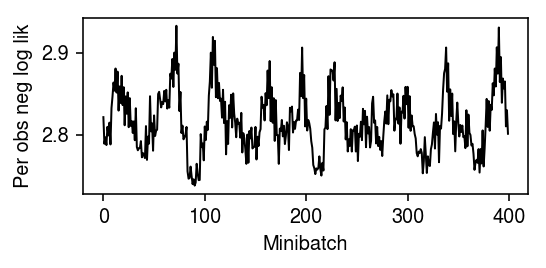
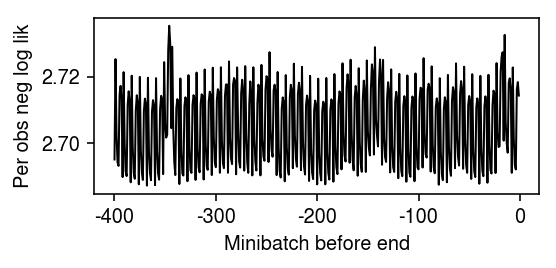
Look at amortization gap in ANMF

diff --git a/docs/time-course.html b/docs/time-course.html
@@ -1,7 +1,7 @@
 <!DOCTYPE html>
 <html lang="en">
 <head>
-<!-- 2020-03-12 Thu 13:06 -->
+<!-- 2020-03-12 Thu 19:55 -->
 <meta charset="utf-8">
 <meta name="viewport" content="width=device-width, initial-scale=1">
 <title>Fully unsupervised topic models of scRNA-seq time course data</title>
@@ -625,33 +625,25 @@ Simulate a simple example.
 <span class="org-variable-name">k</span> = 10
 <span class="org-variable-name">l</span> = np.random.lognormal(sigma=0.5, size=(n, k))
 <span class="org-variable-name">f</span> = np.random.lognormal(sigma=0.5, size=(p, k))
-<span class="org-variable-name">x</span> = np.random.poisson(l.dot(f.T))
+<span class="org-variable-name">x</span> = np.random.poisson(l @ f.T)
 <span class="org-variable-name">s</span> = x.<span class="org-builtin">sum</span>(axis=1)
 </pre>
 </div>
 
 <p>
-Fit NMF via EM.
+Fit NMF via EM. Report the time elapsed (minutes).
 </p>
 
 <div class="org-src-container">
 <pre class="src src-ipython"><span class="org-variable-name">start</span> = time.time()
-<span class="org-variable-name">lhat</span>, <span class="org-variable-name">fhat</span>, <span class="org-variable-name">loss</span> = scmodes.lra.nmf(x, rank=10, tol=1e-2, max_iters=10000, verbose=<span class="org-constant">True</span>)
+<span class="org-variable-name">lhat0</span>, <span class="org-variable-name">fhat0</span>, <span class="org-variable-name">loss0</span> = scmodes.lra.nmf(x, rank=10, tol=1e-3, max_iters=50000, verbose=<span class="org-constant">True</span>)
 <span class="org-variable-name">elapsed</span> = time.time() - start
-</pre>
-</div>
-
-<p>
-Report the time elapsed (seconds).
-</p>
-
-<div class="org-src-container">
-<pre class="src src-ipython">elapsed
+elapsed / 60
 </pre>
 </div>
 
 <pre class="example">
-200.11741995811462
+14.871012659867604
 
 </pre>
 
@@ -661,70 +653,55 @@ objective. Report the maximum absolute KKT residual.
 </p>
 
 <div class="org-src-container">
-<pre class="src src-ipython"><span class="org-variable-name">A</span> = x / (s.reshape(-1, 1) * lhat.dot(fhat))
-<span class="org-variable-name">l_resid</span> = <span class="org-builtin">abs</span>(fhat.T * ((1 - A).T @ lhat)).<span class="org-builtin">max</span>()
-<span class="org-variable-name">f_resid</span> = <span class="org-builtin">abs</span>(lhat * ((1 - A) @ fhat.T)).<span class="org-builtin">max</span>()
+<pre class="src src-ipython"><span class="org-variable-name">A</span> = x / (s.reshape(-1, 1) * lhat0 @ fhat0.T)
+<span class="org-variable-name">l_resid</span> = <span class="org-builtin">abs</span>(fhat0 * ((1 - A).T @ lhat0)).<span class="org-builtin">max</span>()
+<span class="org-variable-name">f_resid</span> = <span class="org-builtin">abs</span>(lhat0 * ((1 - A) @ fhat0)).<span class="org-builtin">max</span>()
 l_resid, f_resid
 </pre>
 </div>
 
-<p>
-Report the oracle loss, and the EM loss.
-</p>
-
-<div class="org-src-container">
-<pre class="src src-ipython">-st.poisson(mu=x).logpmf(x).<span class="org-builtin">sum</span>(), loss
-</pre>
-</div>
-
 <pre class="example">
-(1104395.014892481, 1356432.0729535678)
+(2567.8499292412193, 7533.948618377116)
 
 </pre>
 
 <p>
-Fit ANMF.
+Fit ANMF. Report the time elapsed (seconds).
 </p>
+
 
 <div class="org-src-container">
 <pre class="src src-ipython"><span class="org-keyword">assert</span> torch.cuda.is_available()
-<span class="org-variable-name">dense_data</span> = td.TensorDataset(torch.tensor(x, dtype=torch.<span class="org-builtin">float</span>).cuda(),
-                              torch.tensor(s, dtype=torch.<span class="org-builtin">float</span>).cuda())
-<span class="org-variable-name">data</span> = td.DataLoader(dense_data, batch_size=64, shuffle=<span class="org-constant">True</span>)
+<span class="org-variable-name">xt</span> = torch.tensor(x, dtype=torch.<span class="org-builtin">float</span>).cuda()
+<span class="org-variable-name">dense_data</span> = td.TensorDataset(xt, torch.tensor(s, dtype=torch.<span class="org-builtin">float</span>).cuda())
+<span class="org-variable-name">data</span> = td.DataLoader(dense_data, batch_size=64, shuffle=<span class="org-constant">False</span>)
 </pre>
 </div>
 
 <div class="org-src-container">
 <pre class="src src-ipython"><span class="org-variable-name">start</span> = time.time()
 <span class="org-variable-name">fit</span> = (anmf.modules.ANMF(input_dim=x.shape[1])
-       .fit(data, max_epochs=400, trace=<span class="org-constant">True</span>, lr=5e-3))
+       .fit(data, max_epochs=800, trace=<span class="org-constant">True</span>, lr=5e-4))
 <span class="org-variable-name">elapsed</span> = time.time() - start
-</pre>
-</div>
-
-<p>
-Report the time elapsed (seconds).
-</p>
-
-<div class="org-src-container">
-<pre class="src src-ipython">elapsed
+elapsed
 </pre>
 </div>
 
 <pre class="example">
-7.6526994705200195
+15.24153757095337
 
 </pre>
 
 <p>
-Plot the optimization trace, focusing on the last 100 iterations.
+Plot the optimization trace, focusing on the last 100 minibatches.
 </p>
 
 <div class="org-src-container">
 <pre class="src src-ipython">plt.clf()
 plt.gcf().set_size_inches(4, 2)
 plt.plot(np.array(fit.trace).ravel()[-400:] / (64 * p), lw=1, c=<span class="org-string">'k'</span>)
-plt.xlabel(<span class="org-string">'Minibatch'</span>)
+plt.xticks(np.arange(0, 500, 100), np.arange(-400, 100, 100))
+plt.xlabel(<span class="org-string">'Minibatch before end'</span>)
 plt.ylabel(<span class="org-string">'Per obs neg log lik'</span>)
 plt.tight_layout()
 </pre>
@@ -737,13 +714,51 @@ plt.tight_layout()
 </div>
 
 <p>
+Recover the loadings and factors.
+</p>
+
+<div class="org-src-container">
+<pre class="src src-ipython"><span class="org-variable-name">lhat</span> = fit.loadings(xt)
+<span class="org-variable-name">fhat</span> = fit.factors()
+</pre>
+</div>
+
+<p>
+Report the loss achieved by each algorithm.
+</p>
+
+<div class="org-src-container">
+<pre class="src src-ipython">pd.Series({
+  <span class="org-string">'oracle'</span>: -st.poisson(mu=l @ f.T).logpmf(x).<span class="org-builtin">sum</span>(),
+  <span class="org-string">'em'</span>: loss0,
+  <span class="org-string">'anmf'</span>: -st.poisson(mu=s.reshape(-1, 1) * lhat @ fhat).logpmf(x).<span class="org-builtin">sum</span>(),
+})
+</pre>
+</div>
+
+<pre class="example">
+oracle    1.364353e+06
+em        1.356402e+06
+anmf      1.385015e+06
+dtype: float64
+</pre>
+
+<p>
+The log likelihood achieved by ANMF is lower than the oracle. Recent results
+(<a href="https://arxiv.org/abs/1801.03558">Cremer et al 2020</a>) suggest this is to
+be expected: there is an <i>amortization gap</i> due to the fact that we are not
+directly optimizing the likelihood with respect to the local latent variable
+\(\vl_i\) for each observation \(\vx_i\). The more important (and more
+difficult!) question to assess is whether this difference matters for
+downstream analysis.
+</p>
+
+<p>
 Report the maximum absolute KKT residual.
 </p>
 
 <div class="org-src-container">
-<pre class="src src-ipython"><span class="org-variable-name">lhat</span> = np.vstack([fit.loadings(b) <span class="org-keyword">for</span> (b, s) <span class="org-keyword">in</span> data])
-<span class="org-variable-name">fhat</span> = fit.factors()
-<span class="org-variable-name">A</span> = x / (s.reshape(-1, 1) * lhat.dot(fhat))
+<pre class="src src-ipython"><span class="org-variable-name">A</span> = x / (s.reshape(-1, 1) * lhat.dot(fhat))
 <span class="org-variable-name">l_resid</span> = <span class="org-builtin">abs</span>(fhat.T * ((1 - A).T @ lhat)).<span class="org-builtin">max</span>()
 <span class="org-variable-name">f_resid</span> = <span class="org-builtin">abs</span>(lhat * ((1 - A) @ fhat.T)).<span class="org-builtin">max</span>()
 l_resid, f_resid
@@ -751,7 +766,7 @@ l_resid, f_resid
 </div>
 
 <pre class="example">
-(0.023548399419082357, 0.029147694241919264)
+(0.000967120470937001, 0.07753114624327002)
 
 </pre>
 </div>
@@ -991,7 +1006,7 @@ plt.tight_layout()
 </div>
 <div id="postamble" class="status">
 <p class="author">Author: Abhishek Sarkar</p>
-<p class="date">Created: 2020-03-12 Thu 13:06</p>
+<p class="date">Created: 2020-03-12 Thu 19:55</p>
 <p class="validation"><a href="http://validator.w3.org/check?uri=referer">Validate</a></p>
 </div>
 </body>
